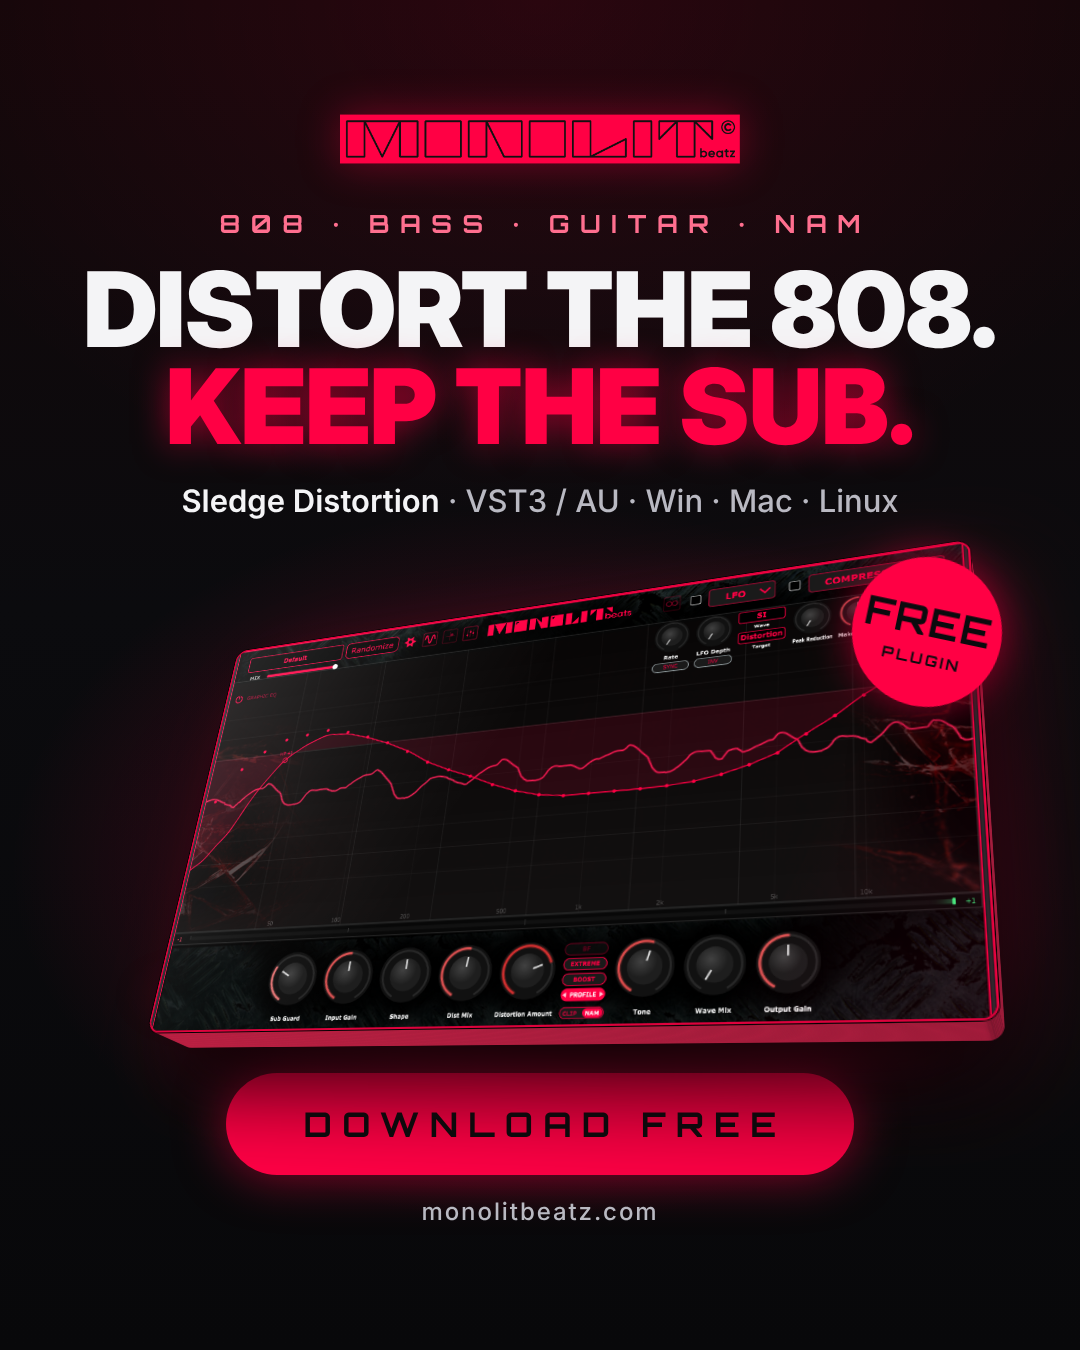
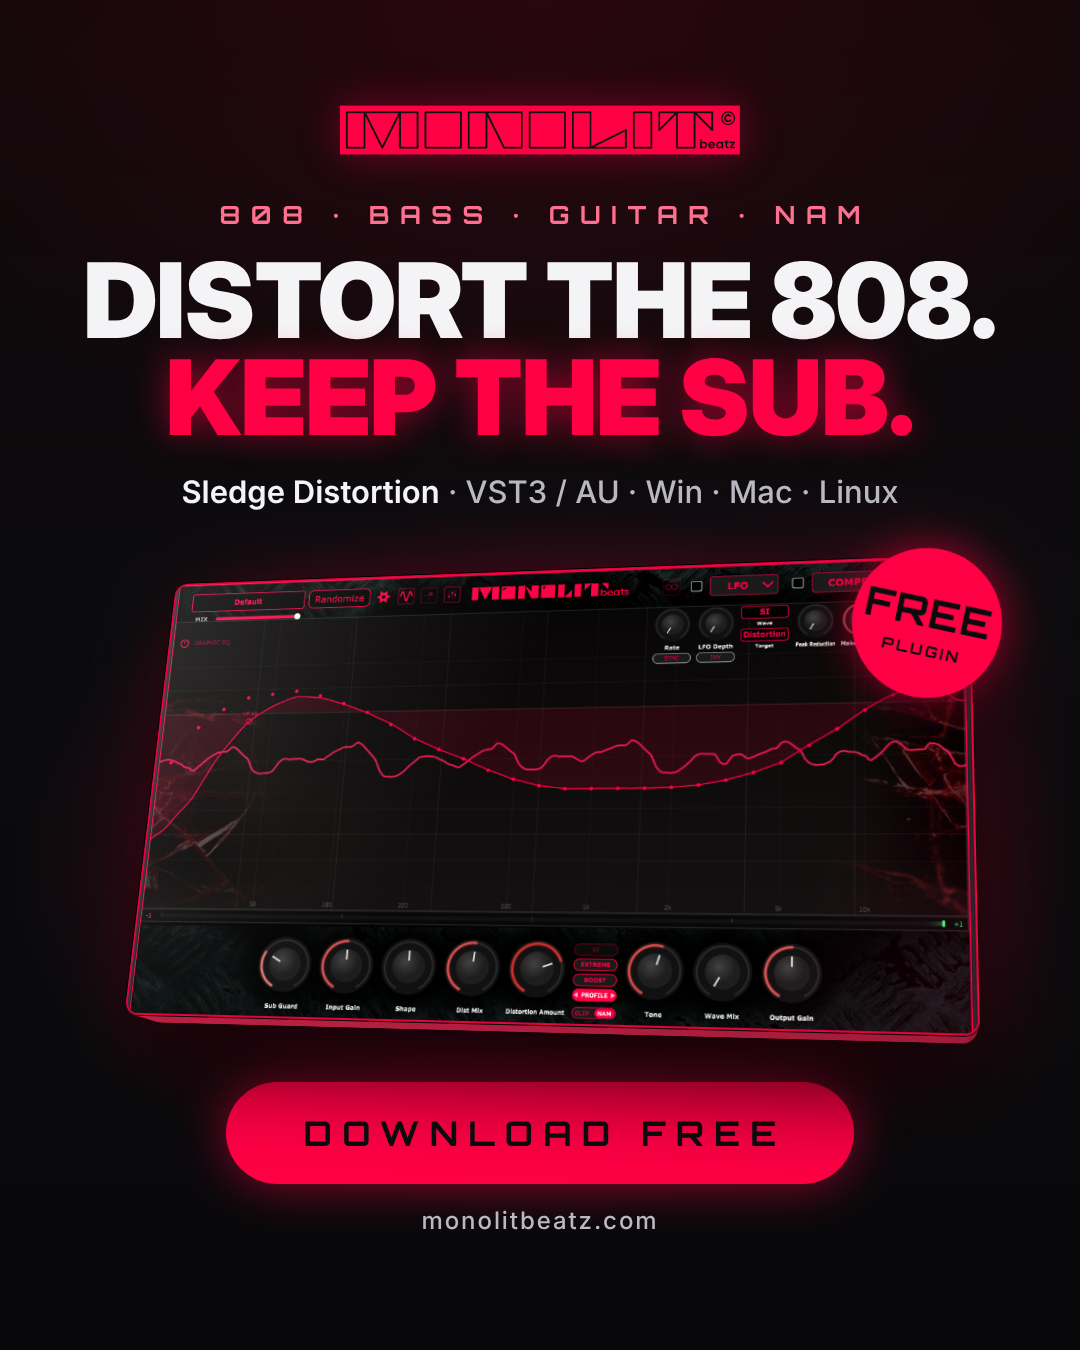
chore: soften the launch post's plugin tilt
Smaller rotation and a flatter perspective so the window sits level with the headline and button, plus more room above the button.

diff --git a/marketing/launch/post.html b/marketing/launch/post.html
@@ -49,20 +49,20 @@
 
   .stage {
     position: relative; margin-top: 44px; width: 940px; height: 470px;
-    perspective: 1250px;
+    perspective: 1600px;
   }
   body.story .stage { margin-top: 90px; height: 520px; }
   /* The window is a slab: a screen face plus stacked layers behind it that
      read as a thick body once rotated. */
   .floor {
     position: absolute; left: 50%; bottom: -34px; width: 820px; height: 90px;
-    transform: translateX(-50%) rotate(4deg); border-radius: 50%;
+    transform: translateX(-50%) rotate(2deg); border-radius: 50%;
     background: radial-gradient(ellipse at center, rgba(0,0,0,.95), rgba(255,0,68,.18) 55%, transparent 72%);
     filter: blur(18px);
   }
   .device {
     position: absolute; left: 50%; top: 50%; width: 840px; aspect-ratio: 1210 / 679;
-    transform: translate(-50%, -50%) rotateX(28deg) rotateY(-22deg) rotateZ(6deg);
+    transform: translate(-50%, -50%) rotateX(16deg) rotateY(-12deg) rotateZ(3deg);
     transform-style: preserve-3d;
   }
   .slab {
@@ -94,7 +94,7 @@
   .badge .small { font-size: 15px; letter-spacing: .18em; margin-top: 4px; }
 
   .cta {
-    margin-top: 40px; padding: 30px 78px; border-radius: 999px; background: var(--red);
+    margin-top: 58px; padding: 30px 78px; border-radius: 999px; background: var(--red);
     color: #0b0b0e; font-family: "Orbitron"; font-weight: 700; font-size: 34px;
     letter-spacing: .3em; padding-right: calc(78px - .3em);
     box-shadow: 0 0 50px rgba(255,0,68,.55);
